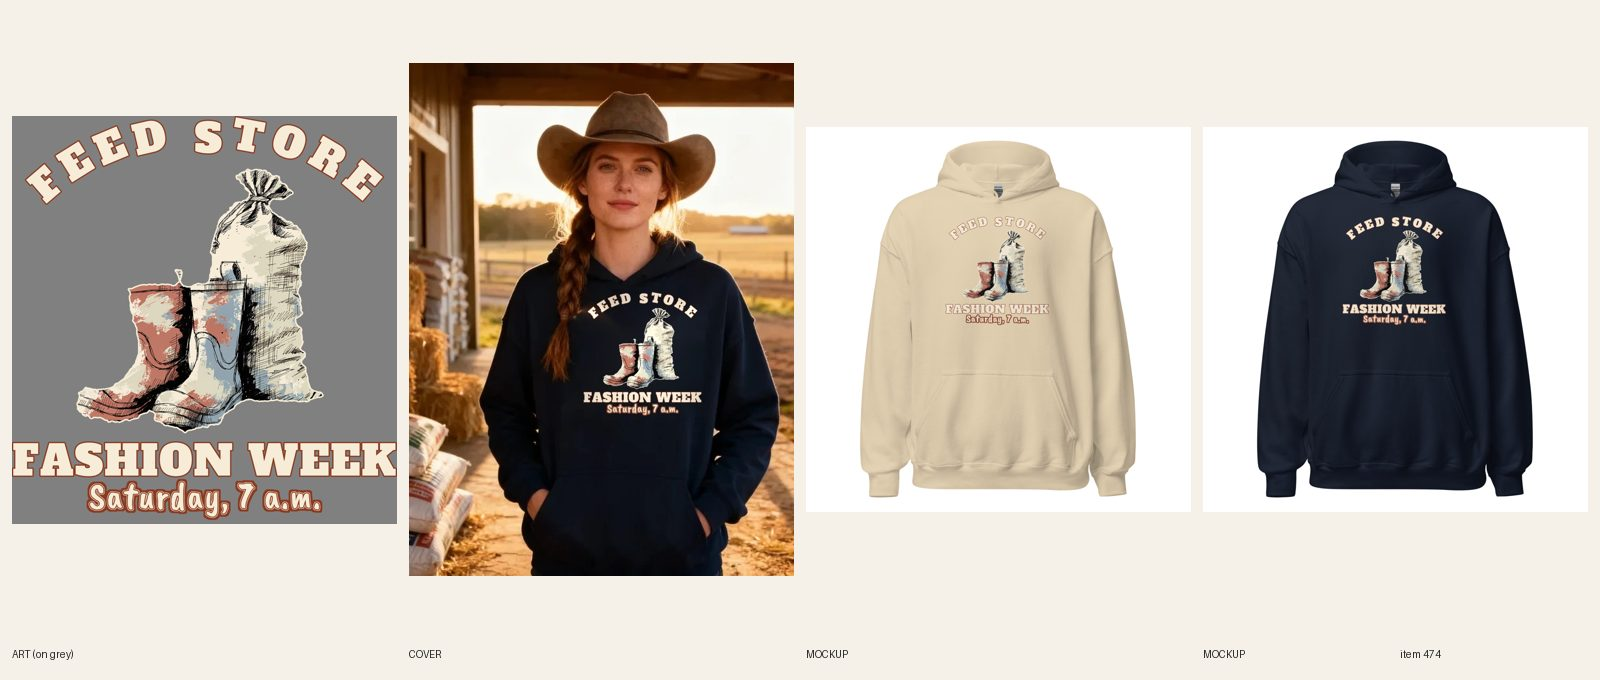
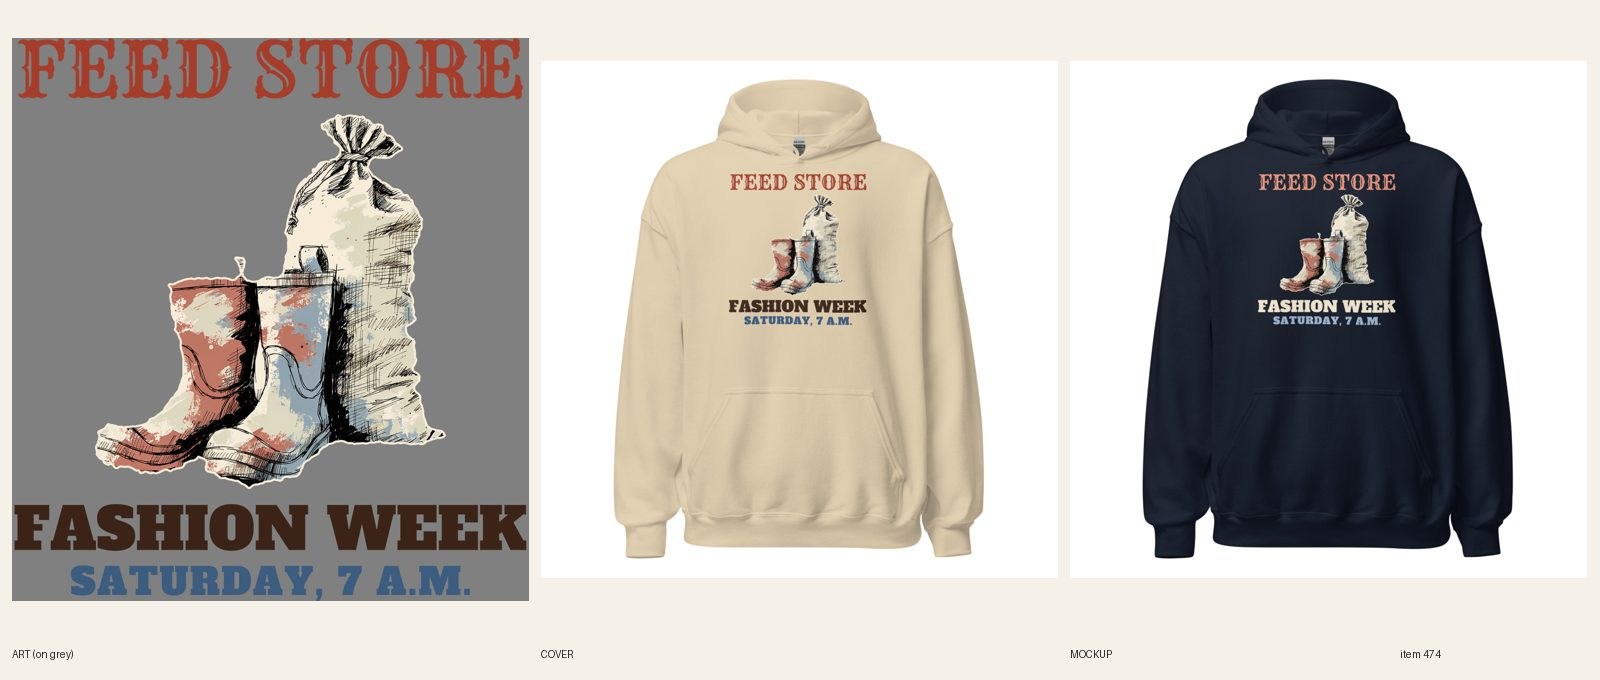
[A] review 474 Feed Store Fashion Week hoodie (type redo)
Claude-Session: https://claude.ai/code/session_013Gy11BhumksxmJDVRLtGDA

diff --git a/designs/a474/make.py b/designs/a474/make.py
@@ -1,0 +1,34 @@
+from PIL import Image, ImageDraw, ImageFont
+import sys
+art=Image.open('designs/a474/art.png').convert('RGBA'); art=art.crop(art.getbbox())
+def line(text,font,size,maxw,fill,track=0.0,stroke=0,sfill=None):
+    while True:
+        f=ImageFont.truetype('designs/fonts/'+font,size)
+        tr=int(size*track)
+        adv=[f.getlength(c) for c in text]; tot=int(sum(adv)+tr*(len(text)-1)+2*stroke)
+        if tot<=maxw: break
+        size=int(size*0.98)
+    asc,desc=f.getmetrics()
+    im=Image.new('RGBA',(tot+400,asc+desc+300),(0,0,0,0)); d=ImageDraw.Draw(im); x=200
+    for c,a in zip(text,adv):
+        d.text((x,100),c,font=f,fill=fill,stroke_width=stroke,stroke_fill=sfill); x+=a+tr
+    return im.crop(im.getbbox())
+F1,F2,F3=sys.argv[1:4]
+def build(name,c1,c2,c3):
+    W=3250; gap=90
+    h1=line('FEED STORE',F1,900,W,c1)
+    h2=line('FASHION WEEK',F2,900,W,c2)
+    h3=line('SATURDAY, 7 A.M.',F3,900,int(W*0.78),c3,track=0.04)
+    ah=int(1.09*W-h1.height-h2.height-h3.height-3*gap); aw=int(ah*art.width/art.height)
+    a2=art.resize((aw,ah),Image.LANCZOS)
+    H=h1.height+gap+ah+gap+h2.height+gap+h3.height
+    out=Image.new('RGBA',(W,H),(0,0,0,0)); y=0
+    for im in (h1,a2,h2,h3):
+        out.alpha_composite(im,((W-im.width)//2,y)); y+=im.height+gap
+    out.save(f'designs/a474/print-{name}.png'); print(name,out.size,'h1',h1.size,'h2',h2.size,'h3',h3.size,'art',a2.size, round(aw/W,2))
+    return out
+d=build('sand',(166,61,42,255),(59,36,23,255),(60,92,128,255)); n=build('navy',(232,142,120,255),(247,236,212,255),(157,182,209,255))
+ims=[]
+for im,c in ((d,(214,203,180,255)),(n,(27,38,64,255))):
+    bg=Image.new('RGBA',im.size,c); bg.alpha_composite(im); ims.append(bg.convert('RGB').resize((600,int(600*im.height/im.width))))
+o=Image.new('RGB',(1200,ims[0].height)); o.paste(ims[0],(0,0)); o.paste(ims[1],(600,0)); o.save(sys.argv[4])

diff --git a/docs/pipeline/474-western-hoodie-feed-store-fashion-week.md b/docs/pipeline/474-western-hoodie-feed-store-fashion-week.md
@@ -1,4 +1,4 @@
-status: BUILDING A 2026-10-19T21:29Z
+status: REVIEW
 lane: A
 type: new
 id: 474
@@ -40,3 +40,4 @@ kd: 32
 - 2026-10-18 00:20 UTC builder [A]: REDO done, no fal call. "Saturday, 7 a.m." thickened 3 px and given the same brown keyline as FEED STORE / FASHION WEEK (about 15 px at print size); canvas padded 50 px at the bottom to hold it (3000x3176, FW 1500, Printful file 1088580237, 12/12 variants re-linked, back logo kept). New Sand + Navy front/left/right/back mockups replace the old media, variants re-linked to new fronts; Sand and Navy read at 400 px, all three lines legible. Cover: new print composited onto the same photo (R6.9, cover-composite.py with CC_MARGIN=3 so the neck is not inpainted); braid clear of the F, hands unchanged, every word read. design-crops regenerated, review sheet remade. Audit script not runnable in this sandbox (crashes), not run; astro build passes.
 - 2026-10-18 00:17 UTC director: LIVE. Saturday, 7 a.m. now reads on Sand with the rust line and keyline. Copy fixed in passing (R8.3: the story said all lettering was cream; the boots are rust/blue and the Saturday line rust). ACTIVE + Online Store/Headless/Google & YouTube, audit PASS 0 warn.
 - 2026-10-18 17:22 UTC director: QUALITY RESET grade B (type only), REDO. The product stays ACTIVE (same handle, URL, title keyword). Keep the line "FEED STORE / FASHION WEEK / Saturday, 7 a.m." and the art. 1. Type: Arched headline mid-weight and smaller than FASHION WEEK; small script third line. 2. Quality reset type bar (docs/backlog/quality-reset.md, 'The new bar'): headline at least 90% of the art width, heavy, colors pulled from the art; second line at least 45% of the headline's height, never a thin script on a dark or mid garment; use the lettering as a shape (arch, stacked lockup, words breaking into the art), not a plain bar above and a script line below; no font used on more than 1 in 6 of the last 30 designs. 3. New print file means a new cover per R6.10 and a fresh review sheet (R7.7). While quality-reset.md says PAUSED, only lane A builds, and only the samples step 2 names.
+- 2026-10-19 21:37 UTC builder [A]: REDO type-only done (director grade B). Same boots + feed sack art (lifted from the old print, lettering removed); FEED STORE in Rye (rust on Sand, salmon on Navy) + FASHION WEEK in Alfa Slab One (dark brown / cream) both full print width, SATURDAY, 7 A.M. in heavy Alfa Slab caps (denim blue / light blue), art 68%, lockup 3250x3542, FW 1500 TOP 0. Light files: Sand on 1089919414 (dark fills), Navy on 1089919452 (cream headline). Relinked 12/12 (Sand 6, Navy 6), back logo 1080398177 kept. Fronts + side views replaced in place (fileUpdate), phone-size read ok on both. Story lettering sentence updated; FAQs 5, Dec 8 kept; no R8.3 opener. Plain product shot (handle already in retired-covers.json). audit --handle PASS 0 warn; build ok. fal $0. Sheet docs/review/474.jpg.

diff --git a/docs/intake-log.md b/docs/intake-log.md
@@ -1,4 +1,4 @@
-RUNNING lane A since 2026-10-19 21:29 UTC
+2026-10-19 21:37 UTC — [A] Builder run: redid #474 Women's Feed Store Fashion Week hoodie (type only: Rye FEED STORE + Alfa Slab FASHION WEEK full width + heavy SATURDAY, 7 A.M., same art, FW 1500 TOP 0, Sand file 1089919414 / Navy file 1089919452, 12/12 relinked, 6 mockups replaced in place, copy updated, plain product shot). REVIEW. fal $0. Lock released.
 RUNNING lane E since 2026-10-19 21:14 UTC
 2026-10-19 21:30 UTC — [E] Builder run: redid #579 Men's Grandpa Ask Your Grandmother tee (type only: Bowlby One cream + Bevan mustard full art width, same art, FW 1650 TOP 75, file 1089909197, 28/28 resynced, 4 fronts replaced in place, copy updated, plain product shot). REVIEW. fal $0.
 2026-10-19 21:23 UTC — [E] Builder run: redid #558 Women's Cat Not My Turn zip hoodie (type only: Bowlby One orange + Anton pink full art width, same art, back BW 1650, file 1089900083, 12/12 resynced, 4 mockups replaced in place, copy updated, plain product shot). REVIEW. fal $0.
@@ -1330,8 +1330,5 @@ for the record, but treat this one as current for these 3 products.
 2026-10-18 07:03 UTC — [B] Run summary: REVIEW #467 #473 #585 (syncs re-run) and #542 cover REDO. Remaining lane B cold-weather READY: #385 half zip (needs hand re-letter, skipped). Lock released.
 2026-10-18 10:25 UTC — [E] Lock released. REDOs 555 559 577 534 536 are in REVIEW (all synced and verified). READY 608-613, 628-633 not started: fal daily cap reached ($15.98/16), new art impossible until 00:00 UTC.
 
-<<<<<<< HEAD
 2026-10-19 21:29 UTC — [C] Builder run: redid #501 Women's Do Not Sell My Books hoodie (type only, port of #481: Fraunces Black one-line headline 97% width + bold AT MY FUNERAL., same art, FW 1700 TOP 0, file 1089909739, 12/12 relinked, 2 fronts replaced in place, copy updated, plain product shot). REVIEW. fal $0. Lock released.
-=======
 2026-10-19 21:41 UTC — [B] Builder run: redid #414 Unisex Goat hoodie (C grade, new line: CLIMBED IT / FOR NO REASON., Rye + Anton, same art, FW 1500 TOP 0, file 1089917045, 12/12 resynced, 2 fronts replaced in place, title/SEO/copy updated, plain product shot). REVIEW. fal $0. Lock released.
->>>>>>> e43b237 ([B] review 414 Climbed It For No Reason goat hoodie (type+line redo))
